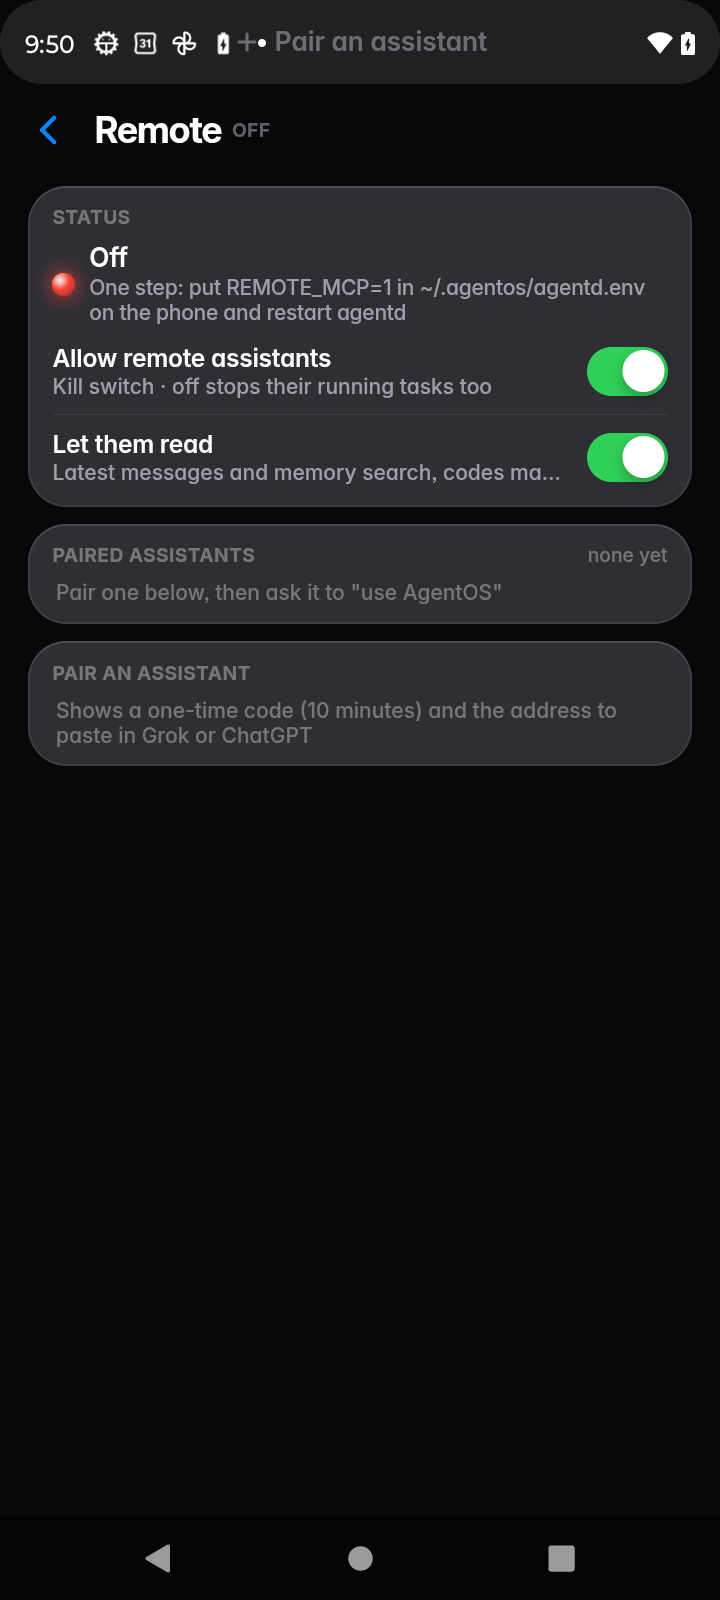
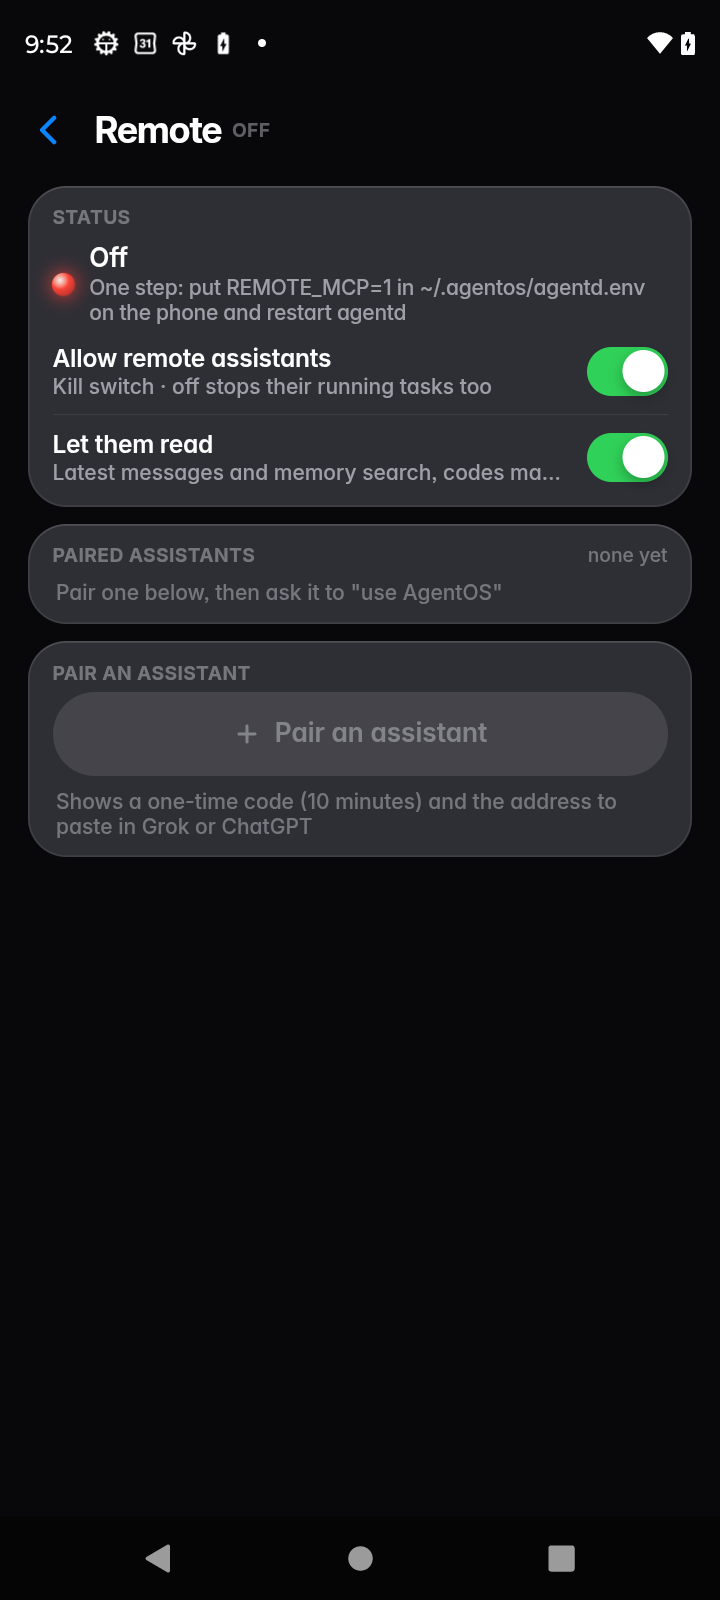
remote tile in Command center (pair code, kill switch, revoke), remote reads in audit/Activity (broker remote.read), micro-app polish (sticky-bar padding, 4 apps + drawer on Home, reject unparseable scripts)

Changed region(s): [[0.0306, 0.4375, 0.9778, 0.5625], [0.0, 0.0, 1.0, 0.0625]]

diff --git a/web/app.js b/web/app.js
@@ -510,7 +510,7 @@ function renderRemote() {
   const pair = el('div', 'mod', '<div class="k">Pair an assistant</div>');
   if (S.pairCode && S.pairCode.exp > Date.now()) { const left = Math.round((S.pairCode.exp - Date.now()) / 1000);
     pair.append(el('div', 'code', esc(S.pairCode.code)), el('div', 'provnote', `One-time code · ${Math.floor(left / 60)}:${String(left % 60).padStart(2, '0')} left`), el('span', 'url', esc(r.url || 'Set REMOTE_PUBLIC_URL on the phone for the address')), el('div', 'provnote', 'In Grok: Connectors › New › Custom, paste the address, then type the code on the sign-in page'));
-  } else { const b = el('button', 'pairbtn' + (r.on ? '' : ' dim'), '<svg width="16" height="16"><use href="#i-plus"/></svg>Pair an assistant'); b.onclick = () => remoteAct('pair'); pair.append(b, el('div', 'provnote', r.url ? `Address: ${r.url}` : 'Shows a one-time code (10 minutes) and the address to paste in Grok or ChatGPT')); }
+  } else { const b = el('button', 'pairbtn' + (r.on ? '' : ' off'), '<svg width="16" height="16"><use href="#i-plus"/></svg>Pair an assistant'); b.onclick = () => remoteAct('pair'); pair.append(b, el('div', 'provnote', r.url ? `Address: ${r.url}` : 'Shows a one-time code (10 minutes) and the address to paste in Grok or ChatGPT')); }
   box.replaceChildren(st, paired, pair);
   if (n) { const rv = el('button', 'revoke', 'Revoke all · everyone must pair again'); rv.onclick = () => { if (rv.textContent !== 'Sure? Tap again') { hap(); rv.textContent = 'Sure? Tap again'; setTimeout(() => (rv.textContent = 'Revoke all · everyone must pair again'), 3000); return; } remoteAct('revoke'); }; box.append(rv); }
 }

diff --git a/web/app.css b/web/app.css
@@ -207,9 +207,9 @@ body{position:fixed;inset:0}
 .rst .s{display:block;color:var(--l2);font-size:12px;font-weight:500;margin-top:1px}
 .code{font-size:34px;font-weight:700;letter-spacing:.12em;text-align:center;font-variant-numeric:tabular-nums;padding:10px 0 2px;color:var(--l1)}
 .url{display:block;font-size:12.5px;font-weight:500;color:var(--teal);word-break:break-all;text-align:center;padding:0 6px 6px}
-.pairbtn{height:48px;border-radius:999px;display:flex;align-items:center;justify-content:center;gap:8px;font-size:15px;font-weight:600;color:#fff;background:var(--blue);box-shadow:0 6px 18px rgba(10,132,255,.35);transition:transform .25s var(--spring)}
+.pairbtn{width:100%;height:48px;border-radius:999px;display:flex;align-items:center;justify-content:center;gap:8px;font-size:15px;font-weight:600;color:#fff;background:var(--blue);box-shadow:0 6px 18px rgba(10,132,255,.35);transition:transform .25s var(--spring)}
 .pairbtn:active{transform:scale(.97)}
-.pairbtn.dim{background:rgba(255,255,255,.1);color:var(--l3);box-shadow:none}
+.pairbtn.off{background:rgba(255,255,255,.1);color:var(--l3);box-shadow:none}
 .revoke{align-self:center;color:#FF8A82;font-size:13px;font-weight:600;padding:12px 16px}
 
 /* passwords */

diff --git a/agentd/apps.js b/agentd/apps.js
@@ -97,6 +97,8 @@ export async function call(name, args, ctx) {
   } catch (e) { return { ok: false, error: `build failed: ${e.message}` }; }
   const page = strip(out);
   if (!/<html[\s>]/i.test(page) || !/<\/html>\s*$/i.test(page) || !/<script/i.test(page)) return { ok: false, error: 'the generator did not return a complete HTML file; call build_app once more' };
+  const bad = [...page.matchAll(/<script(?![^>]*\bsrc=)[^>]*>([\s\S]*?)<\/script>/gi)].map((m) => { try { new Function(m[1]); } catch (e) { return e.message; } }).find(Boolean); // a typo must not replace a working app
+  if (bad) return { ok: false, error: `the generated script has a syntax error (${bad}); call build_app once more` };
   const title = (page.match(/<title>([^<]*)<\/title>/i)?.[1] || '').trim();
   const label = (prev?.name || title || 'App').slice(0, 32);
   let id = prev?.id || slug(label);

diff --git a/android/src/local/agentos/Server.java b/android/src/local/agentos/Server.java
@@ -77,7 +77,7 @@ final class Server {
                 JSONObject params = req.optJSONObject("params");
                 String m = req.getString("method");
                 JSONObject p = params == null ? new JSONObject() : params;
-                int uid = java.util.Arrays.asList("task.start", "approval.confirm", "approval.escalate", "vault.add", "vault.remove", "audit.mark_breaks", "audit.demo_reset", "trackers.block", "trackers.unblock", "schedule.alarm", "plugins.set").contains(m)
+                int uid = java.util.Arrays.asList("task.start", "approval.confirm", "approval.escalate", "vault.add", "vault.remove", "audit.mark_breaks", "audit.demo_reset", "trackers.block", "trackers.unblock", "schedule.alarm", "plugins.set", "remote.read").contains(m)
                         || Plugins.off(m, p) != null ? callerUid(s) : -1; // only these care who asks (a switched-off plugin: is it the owner's own screen?)
                 res = broker.call(m, p, uid);
             } catch (Exception e) {

diff --git a/agentd/research/REMOTE-MCP.md b/agentd/research/REMOTE-MCP.md
@@ -93,7 +93,7 @@ There's no direct calendar read, because the broker needs a lease for calendar A
   list evicts only unpaired clients.
 - **Audit.** The broker's chain logs every remote task with its "From Grok: …" goal (seen on the phone:
   `task.start · From Grok: Open the Clock app… · denied · timed out`), so Activity shows it. Direct reads (`phone_brief`,
-  `memory_lookup`) go only to agentd's log and a `remote.read` event for now (follow-up: a broker audit line).
+  `memory_lookup`) are one `remote.read` line in the broker's chain ("Grok read your latest messages" in Activity) plus a `remote.read` event.
 - **The relay** sees requests in plain text (TLS ends at Caddy). A hacked VPS gets what a paired assistant gets: untrusted
   tasks that the owner must approve. It can't approve, and it can't read the pairing code's hash. Pin `REMOTE_PUBLIC_URL` so a
   forged `Host` header can't change the issuer.
@@ -176,8 +176,8 @@ show `remote: relay connected <host>`, and `/relay-health` should say "phone con
 | `unpair <grant>` | Drop one assistant |
 | `revoke` | Drop all of them |
 
-The same actions are on the launcher WebSocket as `{type:"remote", action}` (owner only). The Command center tile still needs to
-be built (UI work goes to Fable).
+The same actions are on the launcher WebSocket as `{type:"remote", action}` (owner only), behind Command center › Remote: status
+(off / relay connected / phone offline), kill switch, reads switch, paired assistants with last use and Unpair, Pair (code + address), Revoke all.
 
 **Plan B, no VPS.**
 - Cloudflare named tunnel on the phone: install `cloudflared` (arm64) in Termux, then run `cloudflared tunnel run --url http://127.0.0.1:8790 <name>`, from the boot script too.
@@ -196,8 +196,6 @@ be built (UI work goes to Fable).
 
 ## 8. Follow-ups
 
-- **Command center › Remote tile (Fable).** Pair button (shows the code big, once), paired assistants with Unpair, on/off switch,
-  reads switch, relay status. Use the `remote` WebSocket messages above.
 - **A broker audit line for direct reads.** Today only agentd logs `phone_brief` and `memory_lookup`.
 - **MCP Events for Dots** (push "task done" instead of polling). This needs webhook delivery, HMAC and persistent subscriptions [7].
 - Test against real Grok and ChatGPT once the founder has paired them, and a Wi-Fi → cellular switch with a SIM.
